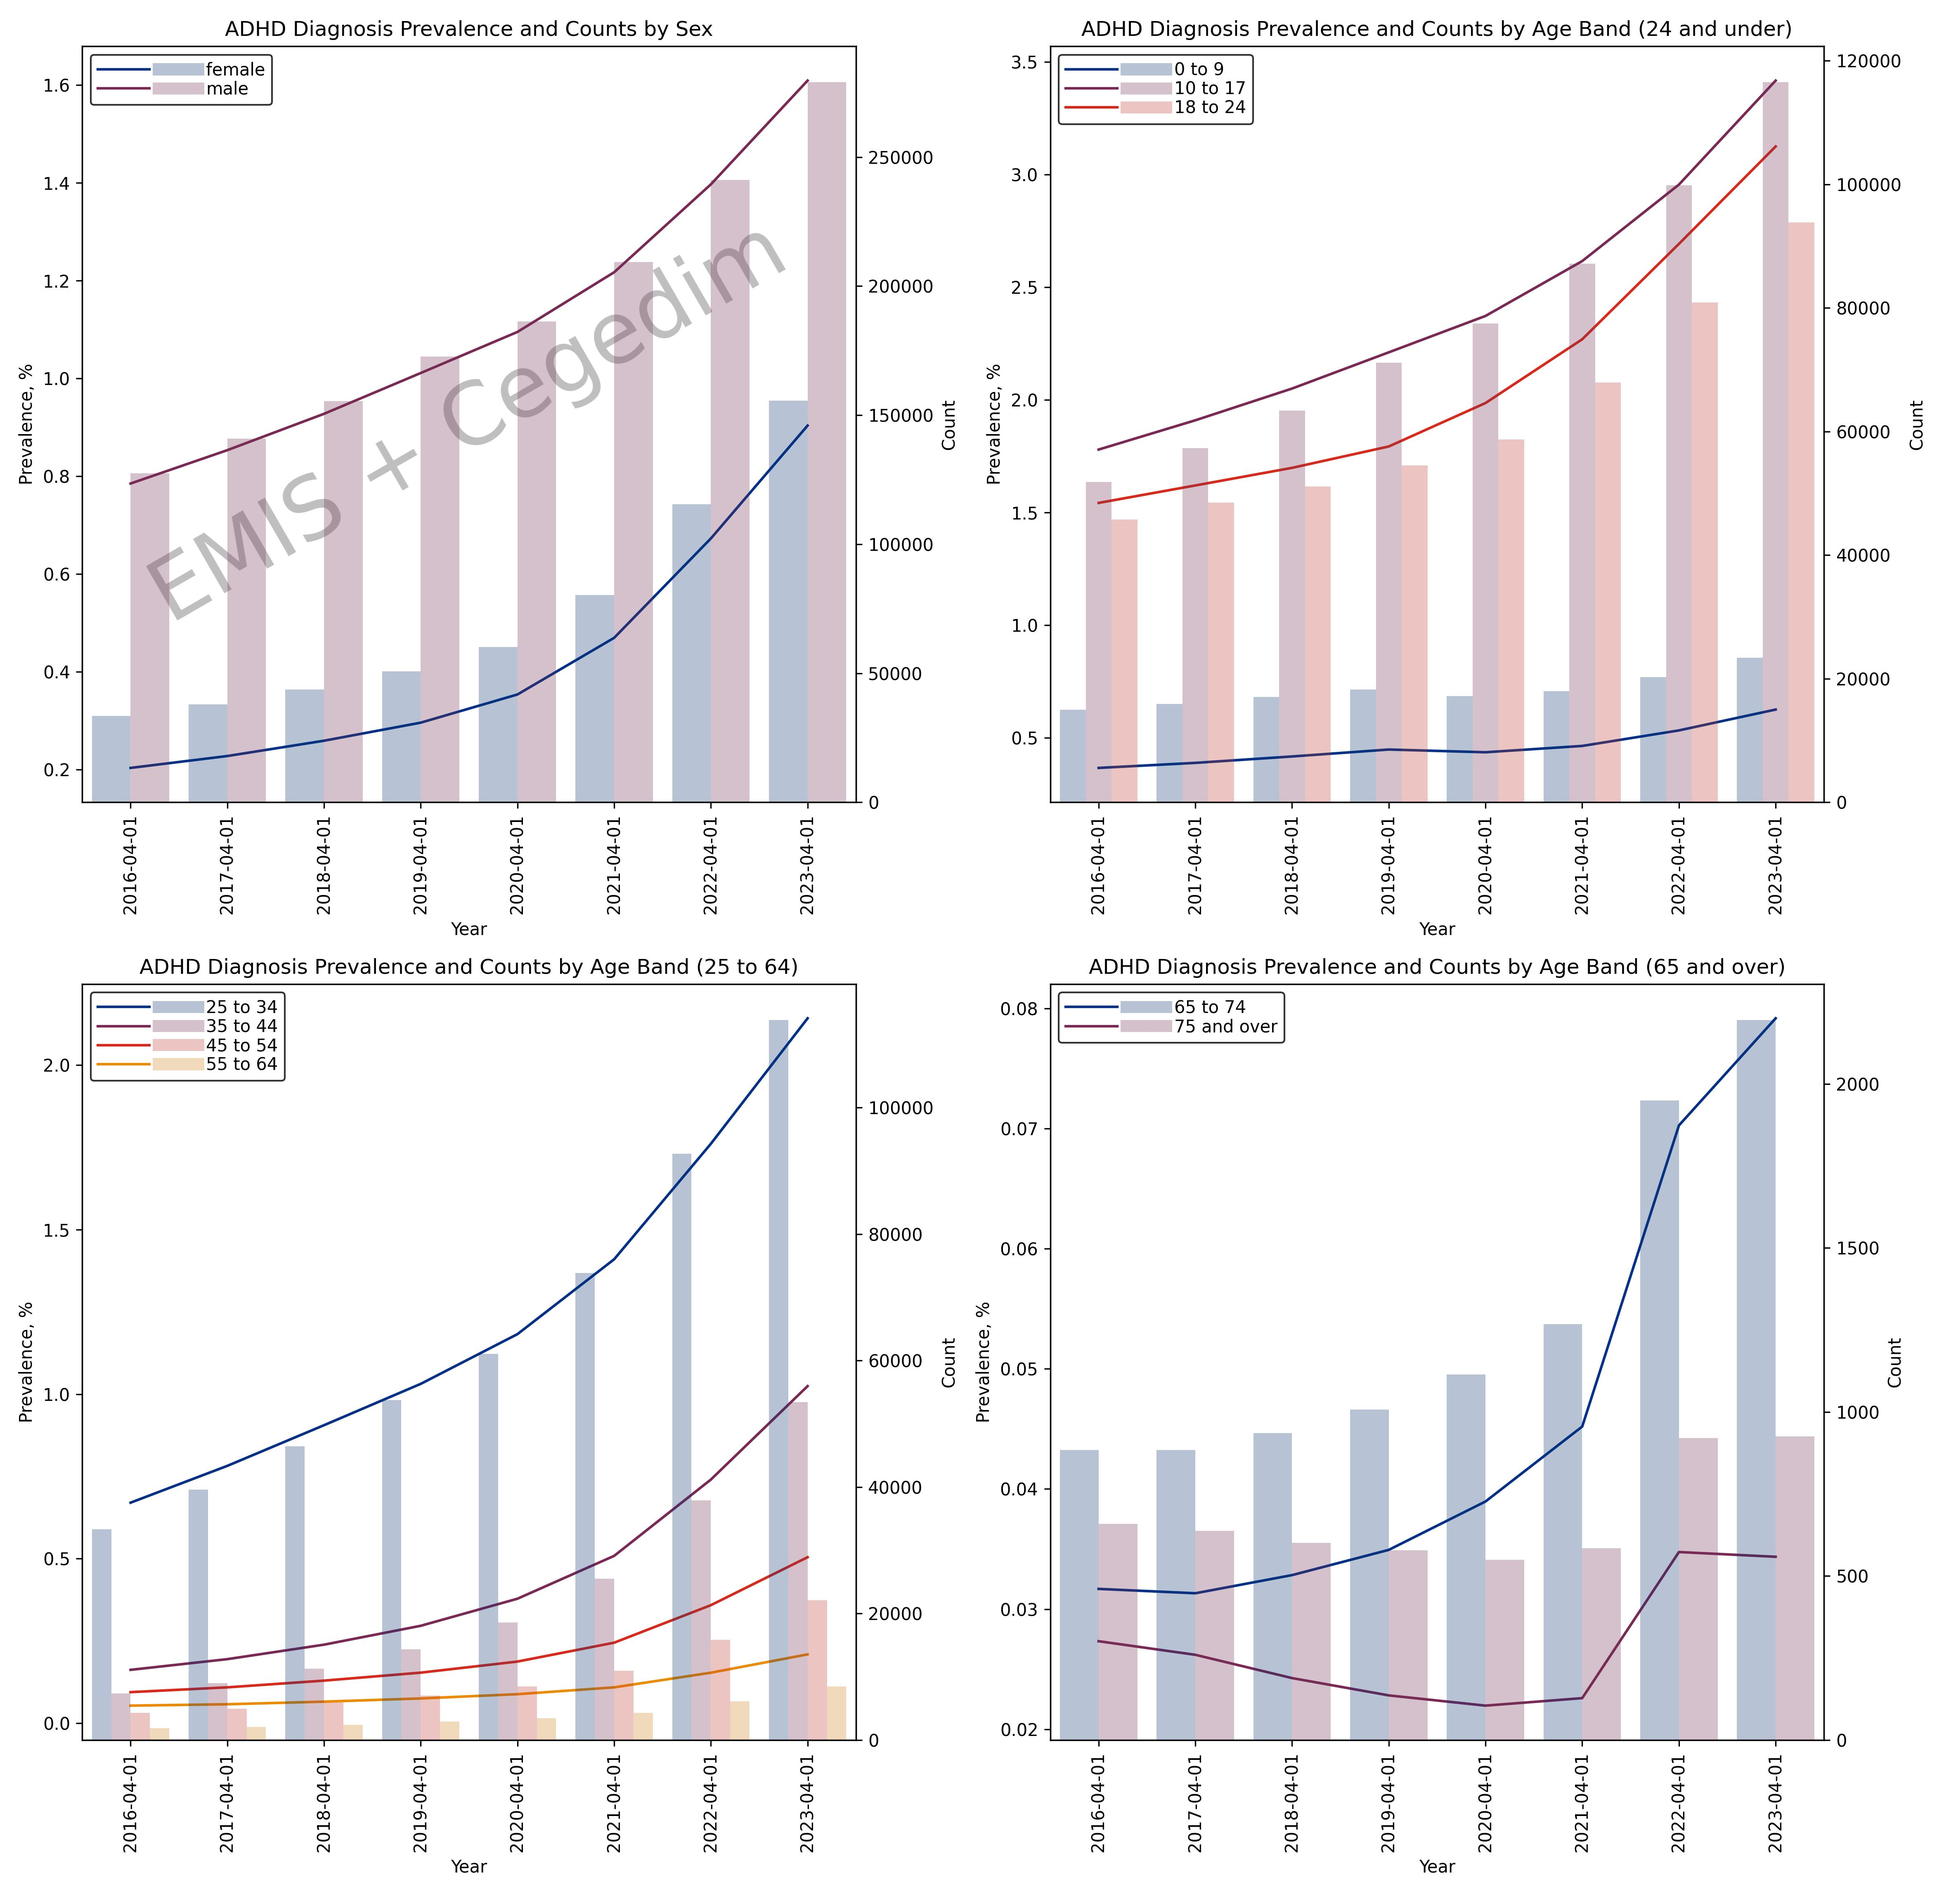
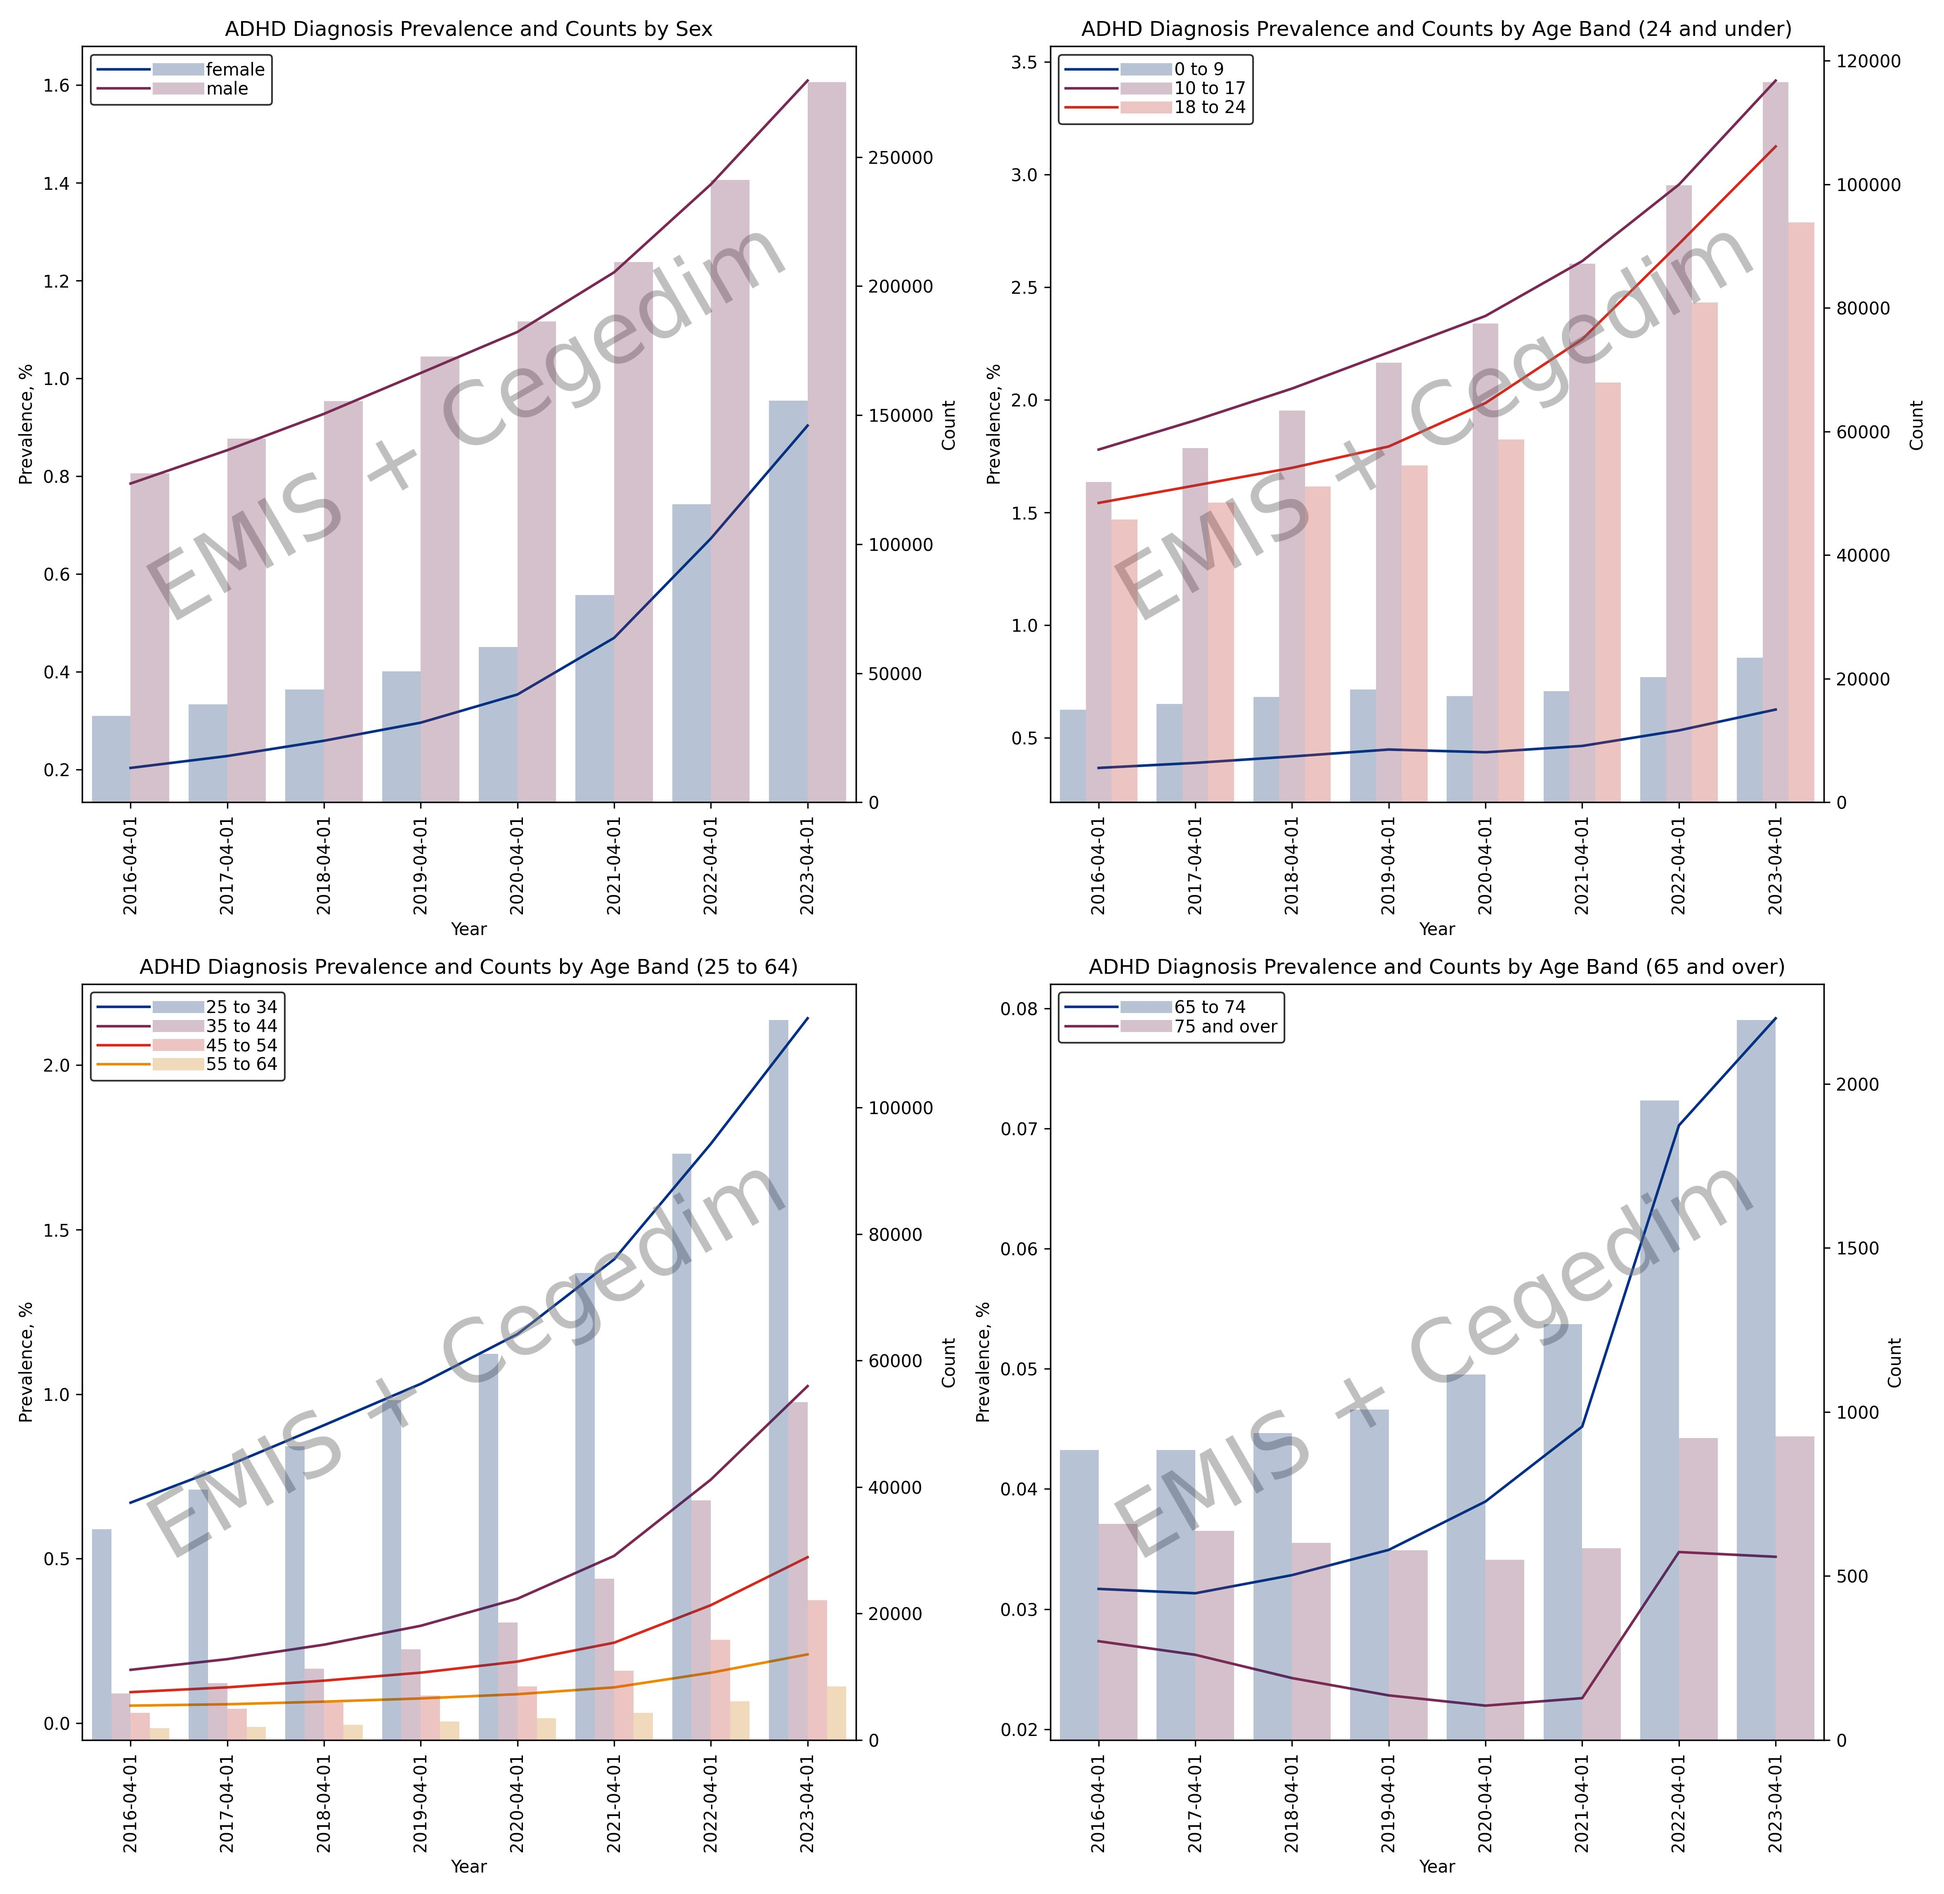
added the watermark

diff --git a/docs/graph_production/utils.py b/docs/graph_production/utils.py
@@ -225,4 +225,30 @@ def get_sex_and_age_groups(table):
     return sex_group, age_group, age_group_young, age_group_middle, age_group_old
 
 
+def watermark_plot(axes, watermark_string):
+    """
+    Adds a watermark text to each subplot in the given axes.
+
+    Parameters
+    ----------
+    axes : numpy.ndarray or matplotlib.axes.Axes
+        An array of matplotlib Axes objects or a single Axes object to which the watermark will be added.
+    watermark_string : str
+        The text to be used as the watermark.
+
+    Returns
+    -------
+    axes : numpy.ndarray or matplotlib.axes.Axes
+        The axes with the watermark text added to each subplot.
+    """
+
+    for ax in axes.flat:
+        ax.text(
+            0.5, 0.5, watermark_string,
+            transform=ax.transAxes,
+            fontsize=50, color='gray', alpha=0.5,
+            ha='center', va='center', rotation=30
+        )
+    return axes
+    
 

diff --git a/docs/graph_production/main.py b/docs/graph_production/main.py
@@ -8,14 +8,13 @@ ADHD_dia_data = pd.read_csv(dia_plots['file_path'])
 # Spliting the data
 sex_group, age_group, age_group_young, age_group_middle, age_group_old = utils.get_sex_and_age_groups(ADHD_dia_data)
 
-#Ploting the data and adding watermarks
+#Ploting the data 
 fig, axes = utils.plot_adhd_prevalence_charts(sex_group, age_group_young, age_group_middle, age_group_old)
 axes[0, 0].set_title(dia_plots['top_left']['title'])
-axes[0, 0].text(0.5, 0.5, 'EMIS + Cegedim', transform=axes[0, 0].transAxes,
-        fontsize=50, color='gray', alpha=0.5,
-        ha='center', va='center', rotation=30)
 axes[0, 1].set_title(dia_plots['top_right']['title'])
 axes[1, 0].set_title(dia_plots['bottom_left']['title'])
 axes[1, 1].set_title(dia_plots['bottom_right']['title'])
+
+axes = utils.watermark_plot(axes,'EMIS + Cegedim')
 
 fig.savefig(dia_plots['file_name'], format="jpeg", dpi=300)
